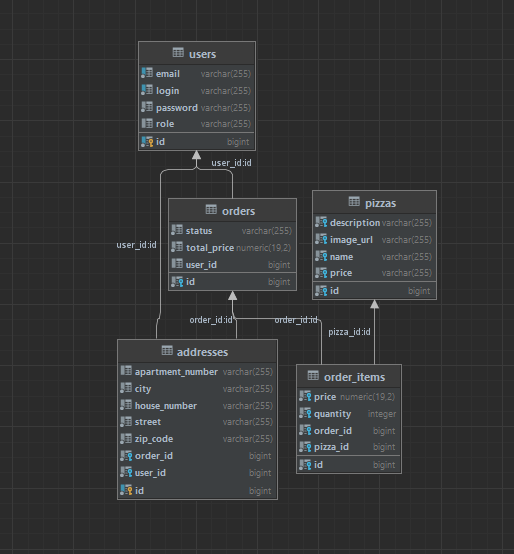
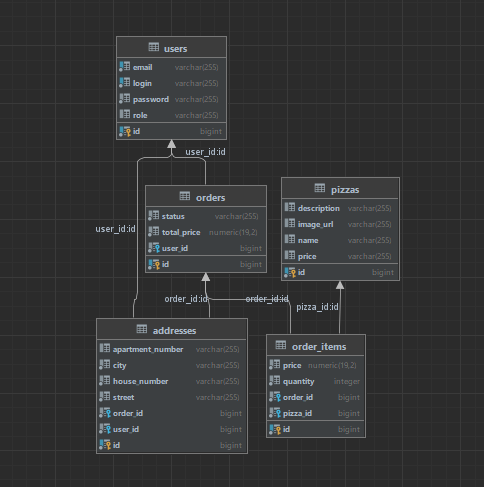
fix

Changed region(s): [[0.186, 0.0616, 0.8678, 0.924]]

diff --git a/src/main/resources/templates/loginGoogle.html b/src/main/resources/templates/loginGoogle.html
@@ -1,0 +1,82 @@
+<!DOCTYPE html>
+<meta charset="UTF-8">
+<html xmlns="http://www.w3.org/1999/xhtml" xmlns:th="https://www.thymeleaf.org"
+      xmlns:sec="https://www.thymeleaf.org/thymeleaf-extras-springsecurity3">
+<head>
+  <title>Login</title>
+  <!-- CSS only -->
+  <link href="https://cdn.jsdelivr.net/npm/bootstrap@5.2.3/dist/css/bootstrap.min.css" rel="stylesheet"
+        integrity="sha384-rbsA2VBKQhggwzxH7pPCaAqO46MgnOM80zW1RWuH61DGLwZJEdK2Kadq2F9CUG65" crossorigin="anonymous">
+  <!-- JavaScript Bundle with Popper -->
+  <script src="https://cdn.jsdelivr.net/npm/bootstrap@5.2.1/dist/js/bootstrap.bundle.min.js"
+          integrity="sha384-u1OknCvxWvY5kfmNBILK2hRnQC3Pr17a+RTT6rIHI7NnikvbZlHgTPOOmMi466C8"
+          crossorigin="anonymous"></script>
+
+  <meta name="viewport" content="width=device-width, initial-scale=1">
+</head>
+<body>
+
+<div hidden th:if="${param.error} != null">
+  <div class="alert alert-danger">Invalid username or
+    password.
+  </div>
+</div>
+
+<div hidden th:if="${param.logout} != null">
+  <div class="alert alert-info">You have been logged out.</div>
+</div>
+
+
+<form th:action="@{/login}" method="post" th:object="${loginForm}">
+  <section class="vh-100 bg-image"
+           style="background-image: url('https://pibig.info/uploads/posts/2022-12/1669899877_3-pibig-info-p-krasivii-zadnii-fon-vkontakte-3.jpg');">
+    <div class="mask d-flex align-items-center h-100 gradient-custom-3">
+      <div class="container h-100">
+        <div class="row d-flex justify-content-center align-items-center h-100">
+          <div class="col-12 col-md-9 col-lg-7 col-xl-6">
+            <div class="card" style="border-radius: 15px;">
+              <div class="card-body p-5">
+                <h2 class="text-uppercase text-center mb-5">Login</h2>
+                <form>
+
+                  <div class="form-outline mb-4">
+                    <input th:value="${login}" type="text" name="login" autofocus required
+                           id="form3Example1cg"
+                           class="form-control form-control-lg"/>
+                    <label class="form-label" for="form3Example1cg">Login</label>
+                  </div>
+
+                  <div class="form-outline mb-4">
+                    <input th:value="${password}" type="password" name="password" autofocus required
+                           id="form3Example4cg"
+                           class="form-control form-control-lg"/>
+                    <label class="form-label" for="form3Example4cg">Password</label>
+                  </div>
+
+                  <div class="d-flex justify-content-center">
+                    <button type="submit" value="SIGN IN"
+                            class="btn btn-success btn-block btn-lg gradient-custom-4 text-body">
+                      SIGN IN
+                    </button>
+
+                  </div>
+
+                  <p class="text-center text-muted mt-5 mb-0"><a
+                          th:href="@{/forgotPassword}"
+                    <input type="button" value="Forgot Password?"
+                           class="fw-bold text-body"><u>Forgot Password?</u></a></p>
+                  <p class="text-center text-muted mt-5 mb-0">Don't have an account yet? &nbsp;<a
+                          th:href="@{/register}"
+                          class="fw-bold text-body"><u>Registration
+                    here</u></a></p>
+                </form>
+              </div>
+            </div>
+          </div>
+        </div>
+      </div>
+    </div>
+  </section>
+</form>
+</body>
+</html>

diff --git a/src/main/resources/templates/orderForm.html b/src/main/resources/templates/orderForm.html
@@ -43,31 +43,38 @@
                                 <h2 class="text-uppercase text-center mb-5">Адрес</h2>
                                 <form>
                                     <div class="form-outline mb-4">
-                                        <input th:value="${name}" type="text" name="name" autofocus required
+                                        <input th:value="${city}" type="text" name="city" autofocus required
                                                id="form3Example1cg"
                                                class="form-control form-control-lg"/>
                                         <label class="form-label" for="form3Example1cg">Город:</label>
                                     </div>
 
                                     <div class="form-outline mb-4">
-                                        <input th:value="${description}" type="text" name="description"
+                                        <input th:value="${street}" type="text" name="street"
                                                id="form4Example1cg"
                                                class="form-control form-control-lg"/>
                                         <label class="form-label" for="form3Example1cg">Улица:</label>
                                     </div>
 
                                     <div class="form-outline mb-4">
-                                        <input th:value="${price}" type="text" name="price" autofocus required
+                                        <input th:value="${houseNumber}" type="text" name="houseNumber" autofocus required
                                                id="form6Example1cg"
                                                class="form-control form-control-lg"/>
-                                        <label class="form-label" for="form3Example1cg">Номер телефона:</label>
+                                        <label class="form-label" for="form3Example1cg">Номер дома:</label>
+                                    </div>
+
+                                    <div class="form-outline mb-4">
+                                        <input th:value="${apartmentNumber}" type="text" name="apartmentNumber" autofocus required
+                                               id="form7Example1cg"
+                                               class="form-control form-control-lg"/>
+                                        <label class="form-label" for="form3Example1cg">Номер квартиры:</label>
                                     </div>
 
 
                                     <div class="d-flex justify-content-center">
                                         <button type="submit" value="Добавить"
                                                 class="btn btn-success btn-block btn-lg gradient-custom-4 text-body">
-                                            Добавить
+                                            Заказать
                                         </button>
                                     </div>
                                     <p class="text-center text-muted mt-5 mb-0" sec:authorize="hasAuthority('ADMIN')"><a

diff --git a/src/main/resources/templates/registration.html b/src/main/resources/templates/registration.html
@@ -53,7 +53,7 @@
                     <div class="col-12 col-md-9 col-lg-7 col-xl-6">
                         <div class="card" style="border-radius: 15px;">
                             <div class="card-body p-5">
-                                <h2 class="text-uppercase text-center mb-5">Create an account</h2>
+                                <h2 class="text-uppercase text-center mb-5">Create account</h2>
 
                                 <form>
 
@@ -86,6 +86,9 @@
 
                                     </div>
 
+                                    <p class="text-center text-muted mt-5 mb-0">Sign in with Google &nbsp;<a
+                                            th:href="@{/loginGoogle}"
+                                            class="fw-bold text-body"><u>Sign in</u></a></p>
                                     <p class="text-center text-muted mt-5 mb-0">Have already an account? <a
                                             th:href="@{/login}"
                                             class="fw-bold text-body"><u>Login

diff --git a/src/main/java/com/example/pizzago/config/SecurityConfig.java b/src/main/java/com/example/pizzago/config/SecurityConfig.java
@@ -1,6 +1,11 @@
 package com.example.pizzago.config;
 
+import com.example.pizzago.enums.Role;
+import com.example.pizzago.model.User;
+import com.example.pizzago.repository.UserRepository;
 import org.springframework.beans.factory.annotation.Autowired;
+import org.springframework.boot.autoconfigure.security.oauth2.client.EnableOAuth2Sso;
+import org.springframework.boot.autoconfigure.security.oauth2.resource.PrincipalExtractor;
 import org.springframework.context.annotation.Bean;
 import org.springframework.context.annotation.Configuration;
 import org.springframework.security.config.annotation.method.configuration.EnableGlobalMethodSecurity;
@@ -16,6 +21,7 @@ import javax.sql.DataSource;
 
 @Configuration
 @EnableWebSecurity
+@EnableOAuth2Sso
 @EnableGlobalMethodSecurity(prePostEnabled = true)
 public class SecurityConfig extends WebSecurityConfigurerAdapter {
 
@@ -57,5 +63,26 @@ public class SecurityConfig extends WebSecurityConfigurerAdapter {
                 .antMatchers("/resources/**", "/templates/**", "/static/**", "registration");
     }
 
+    @Bean
+    public PrincipalExtractor principalExtractor(UserRepository userRepository) {
+            return map -> {
+                Long id = (Long) map.get("sub");
+
+            User user = userRepository.findById(id).orElseGet(() -> {
+                User newUser = new User();
+
+                newUser.setId((id));
+                newUser.setLogin((String) map.get("login"));
+                newUser.setEmail((String) map.get("email"));
+                newUser.setPassword("12345");
+                newUser.setOrders(null);
+                newUser.setRole(Role.USER);
+
+                return newUser;
+            });
+
+            return userRepository.save(user);
+        };
+    }
 
 }

diff --git a/src/main/java/com/example/pizzago/model/Address.java b/src/main/java/com/example/pizzago/model/Address.java
@@ -15,6 +15,9 @@ public class Address {
     @GeneratedValue(strategy = GenerationType.IDENTITY)
     private Long id;
 
+    @Column(name = "city", nullable = false)
+    private String city;
+
     @Column(name = "street", nullable = false)
     private String street;
 
@@ -23,12 +26,6 @@ public class Address {
 
     @Column(name = "apartment_number")
     private String apartmentNumber;
-
-    @Column(name = "city", nullable = false)
-    private String city;
-
-    @Column(name = "zip_code", nullable = false)
-    private String zipCode;
 
     @ManyToOne(fetch = FetchType.EAGER, optional = false)
     @JoinColumn(name = "order_id", nullable = false)

diff --git a/src/main/java/com/example/pizzago/controller/UserController.java b/src/main/java/com/example/pizzago/controller/UserController.java
@@ -37,6 +37,11 @@ public class UserController {
         return "redirect:/";
     }
 
+    @GetMapping("/loginGoogle")
+    public String loginGoogle() {
+        return "loginGoogle";
+    }
+
     @GetMapping("/register")
     public ModelAndView register() {
         ModelAndView modelAndView = new ModelAndView("registration");

diff --git a/src/main/java/com/example/pizzago/repository/UserRepository.java b/src/main/java/com/example/pizzago/repository/UserRepository.java
@@ -15,4 +15,6 @@ public interface UserRepository extends JpaRepository<User, Long> {
     User findFirstByLogin(String login);
 
     User findByLogin(String login);
+
+    Optional<User> findById(String id);
 }
